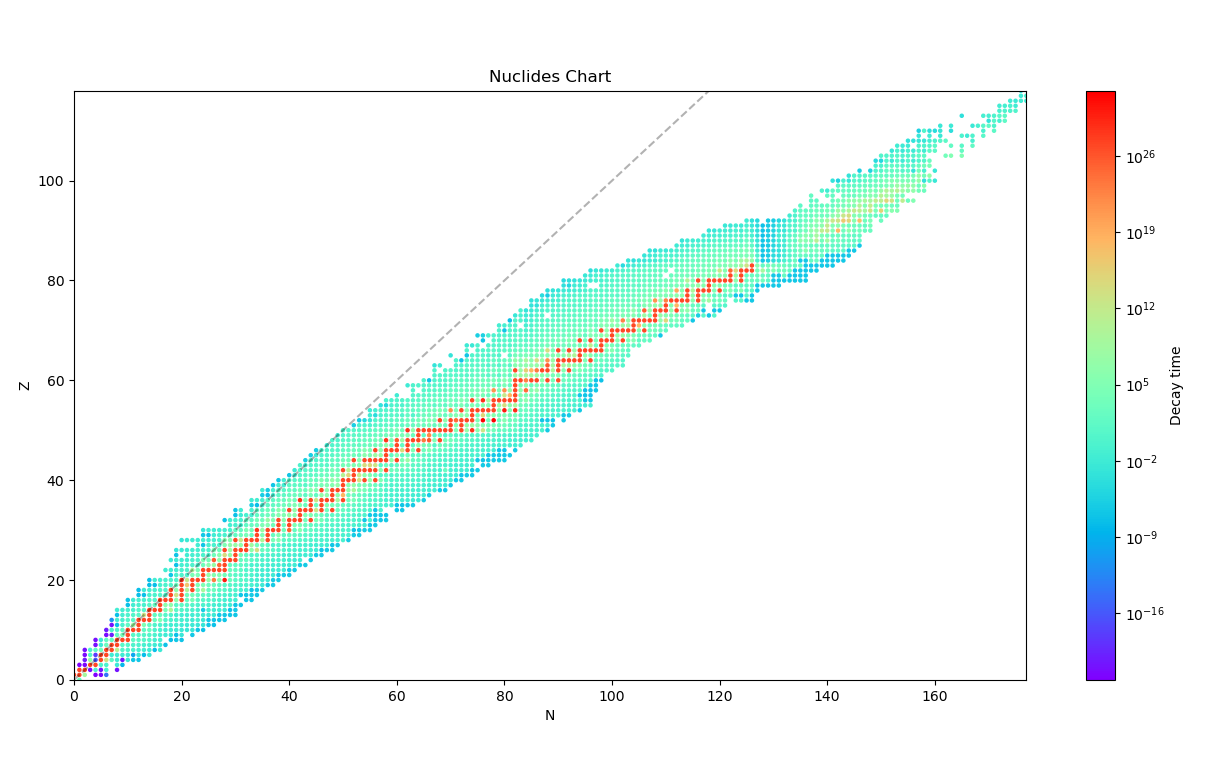
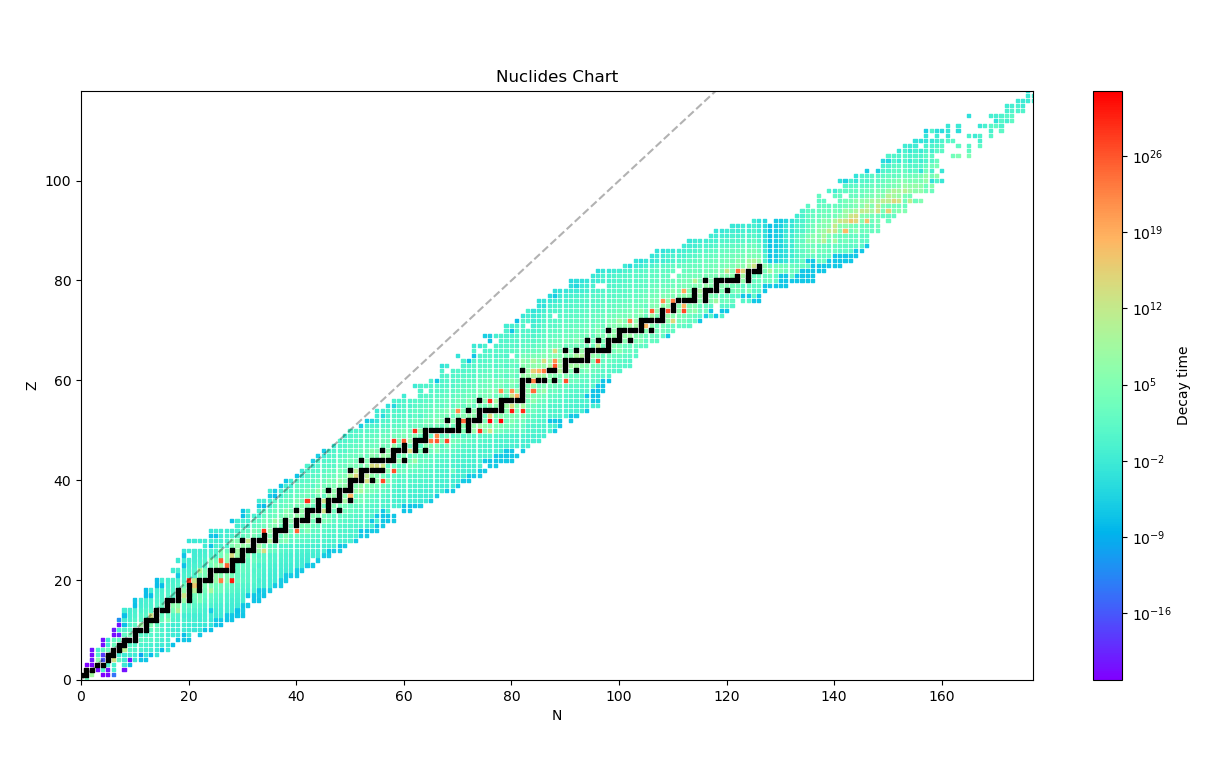
Nuclides chart update

diff --git a/nuclides_table.py b/nuclides_table.py
@@ -10,7 +10,8 @@ from nuclideData.nuclide_data import *
 
 def getData():
 
-    data=[] 
+    unstableData=[] 
+    stableData=[]
     Zmax=119
 
     # loop over Z
@@ -25,17 +26,19 @@ def getData():
             A = iso[j]
             N = iso[j] - Z
 
-            # get decay time 
-            decTime = nuc(Z, A)['half-life']
+            if (nuc(Z,A)['stable']==False):
+
+                # get decay time 
+                decTime = nuc(Z, A)['half-life']
+                # store data
+                unstableData.append((N,Z,decTime))
 
             # fix "inf" for stable nuclides
-            if(nuc(Z,A)['stable']==True):
-                decTime=10e26
-                
-            # store data
-            data.append((N,Z,decTime))
+            if(nuc(Z,A)['stable']==True):   
+                # store data
+                stableData.append((N,Z))
     
-    return data
+    return unstableData, stableData
 
 
 def figureSetup(data):
@@ -55,31 +58,41 @@ def figureSetup(data):
 
 def main():
     
-    data = getData()
+    unstableData, stableData = getData()
 
-    X=[]
-    Y=[]
-    Z=[]
+    unstableX=[]
+    unstableY=[]
+    unstableZ=[]
 
-    for i in range(len(data)):
+    stableX=[]
+    stableY=[]
+
+    for i in range(len(unstableData)):
         # store N as X
-        X.append(data[i][0])
+        unstableX.append(unstableData[i][0])
         # store Z as Y
-        Y.append(data[i][1])
+        unstableY.append(unstableData[i][1])
         # store decay time as Z
-        Z.append(data[i][2])
+        unstableZ.append(unstableData[i][2])
+
+    for i in range(len(stableData)):
+        # store N as X
+        stableX.append(stableData[i][0])
+        # store Z as Y
+        stableY.append(stableData[i][1])
 
     # create figure and axes
-    fig, ax = figureSetup(data)
+    fig, ax = figureSetup(unstableData)
 
     # scatterplot
-    plot = ax.scatter(X, Y, c=np.array(Z), cmap='rainbow', norm=cl.LogNorm(), s=5, marker = 's')
+    unstablePlot = ax.scatter(unstableX, unstableY, c=np.array(unstableZ), cmap='rainbow', norm=cl.LogNorm(), s=5, marker = 's')
+    stablePlot = ax.scatter(stableX, stableY, color='black', s=5, marker = 's')
 
     # add X=Y diagonal dashed line
-    ax.plot(np.linspace(0, data[-1][1]), np.linspace(0, data[-1][1]), '--', color='black', alpha = 0.3)
+    ax.plot(np.linspace(0, unstableData[-1][1]), np.linspace(0, unstableData[-1][1]), '--', color='black', alpha = 0.3)
 
     # add the colorbar on the right
-    fig.colorbar(plot, label = 'Decay time')
+    fig.colorbar(unstablePlot, label = 'Decay time')
 
     plt.show()
 
